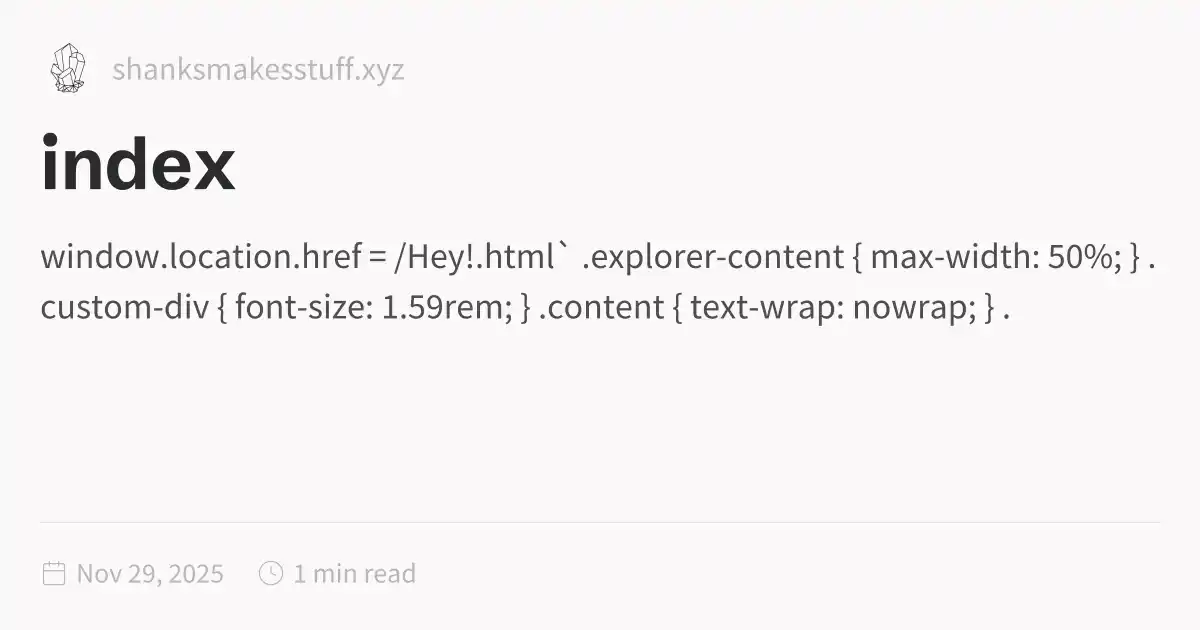
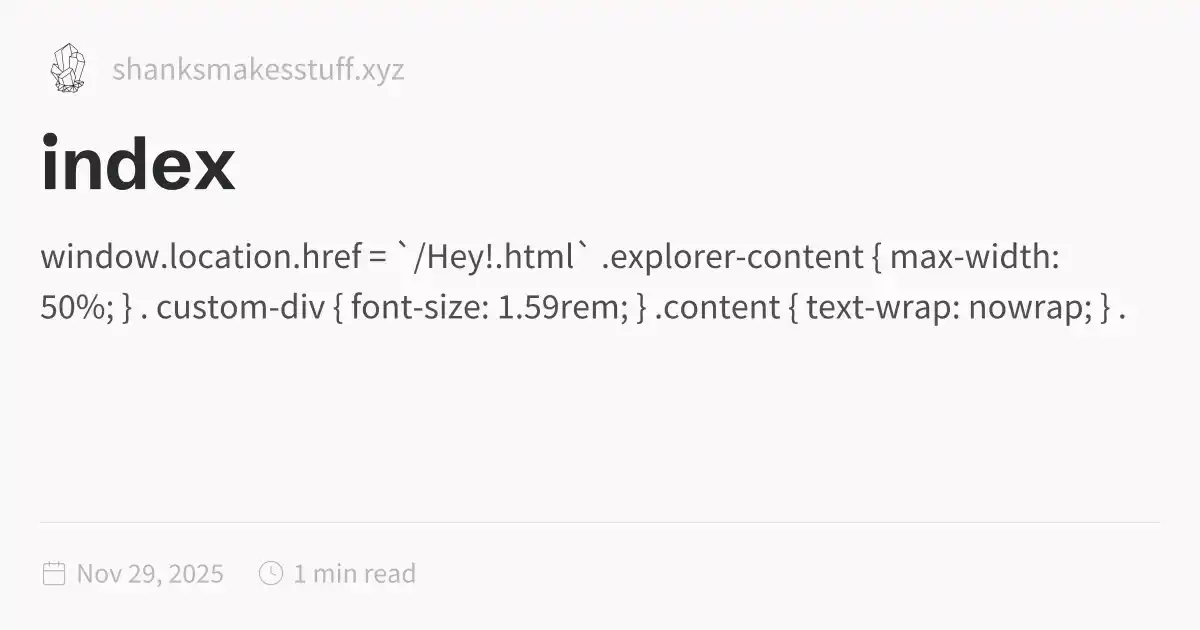
2025-11-29_1534

Changed region(s): [[0.0308, 0.3921, 0.9558, 0.5127]]

diff --git a/index.html b/index.html
@@ -1,5 +1,5 @@
 <!DOCTYPE html>
-<html lang="en"><head><title>index</title><meta charset="utf-8"/><link rel="preconnect" href="https://fonts.googleapis.com"/><link rel="preconnect" href="https://fonts.gstatic.com"/><link rel="stylesheet" href="https://fonts.googleapis.com/css2?family=Schibsted Grotesk:wght@400;700&amp;family=Source Sans Pro:ital,wght@0,400;0,600;1,400;1,600&amp;family=IBM Plex Mono:wght@400;600&amp;display=swap"/><link rel="preconnect" href="https://cdnjs.cloudflare.com" crossorigin="anonymous"/><meta name="viewport" content="width=device-width, initial-scale=1.0"/><meta name="og:site_name" content="ShanksMakesStuff"/><meta property="og:title" content="index"/><meta property="og:type" content="website"/><meta name="twitter:card" content="summary_large_image"/><meta name="twitter:title" content="index"/><meta name="twitter:description" content="window.location.href = /Hey!.html` .explorer-content { max-width: 50%; } . custom-div { font-size: 1.59rem; } .content { text-wrap: nowrap; } ."/><meta property="og:description" content="window.location.href = /Hey!.html` .explorer-content { max-width: 50%; } . custom-div { font-size: 1.59rem; } .content { text-wrap: nowrap; } ."/><meta property="og:image:alt" content="window.location.href = /Hey!.html` .explorer-content { max-width: 50%; } . custom-div { font-size: 1.59rem; } .content { text-wrap: nowrap; } ."/><meta property="twitter:domain" content="shanksmakesstuff.xyz"/><meta property="og:url" content="https://shanksmakesstuff.xyz/index"/><meta property="twitter:url" content="https://shanksmakesstuff.xyz/index"/><link rel="icon" href="./static/icon.png"/><meta name="description" content="window.location.href = /Hey!.html` .explorer-content { max-width: 50%; } . custom-div { font-size: 1.59rem; } .content { text-wrap: nowrap; } ."/><meta name="generator" content="Quartz"/><link href="./index.css" rel="stylesheet" type="text/css" spa-preserve/><style>.expand-button {
+<html lang="en"><head><title>index</title><meta charset="utf-8"/><link rel="preconnect" href="https://fonts.googleapis.com"/><link rel="preconnect" href="https://fonts.gstatic.com"/><link rel="stylesheet" href="https://fonts.googleapis.com/css2?family=Schibsted Grotesk:wght@400;700&amp;family=Source Sans Pro:ital,wght@0,400;0,600;1,400;1,600&amp;family=IBM Plex Mono:wght@400;600&amp;display=swap"/><link rel="preconnect" href="https://cdnjs.cloudflare.com" crossorigin="anonymous"/><meta name="viewport" content="width=device-width, initial-scale=1.0"/><meta name="og:site_name" content="ShanksMakesStuff"/><meta property="og:title" content="index"/><meta property="og:type" content="website"/><meta name="twitter:card" content="summary_large_image"/><meta name="twitter:title" content="index"/><meta name="twitter:description" content="window.location.href = `/Hey!.html` .explorer-content { max-width: 50%; } . custom-div { font-size: 1.59rem; } .content { text-wrap: nowrap; } ."/><meta property="og:description" content="window.location.href = `/Hey!.html` .explorer-content { max-width: 50%; } . custom-div { font-size: 1.59rem; } .content { text-wrap: nowrap; } ."/><meta property="og:image:alt" content="window.location.href = `/Hey!.html` .explorer-content { max-width: 50%; } . custom-div { font-size: 1.59rem; } .content { text-wrap: nowrap; } ."/><meta property="twitter:domain" content="shanksmakesstuff.xyz"/><meta property="og:url" content="https://shanksmakesstuff.xyz/index"/><meta property="twitter:url" content="https://shanksmakesstuff.xyz/index"/><link rel="icon" href="./static/icon.png"/><meta name="description" content="window.location.href = `/Hey!.html` .explorer-content { max-width: 50%; } . custom-div { font-size: 1.59rem; } .content { text-wrap: nowrap; } ."/><meta name="generator" content="Quartz"/><link href="./index.css" rel="stylesheet" type="text/css" spa-preserve/><style>.expand-button {
   position: absolute;
   display: flex;
   float: right;
@@ -116,9 +116,9 @@ pre:hover > .expand-button {
   padding: 0 12px;
   font-size: 14px;
 }
[2 lines of base64/hex data omitted]
 	<script> 
-		window.location.href = /Hey!.html` 
+		window.location.href = `/Hey!.html` 
 	</script> 
  
  
